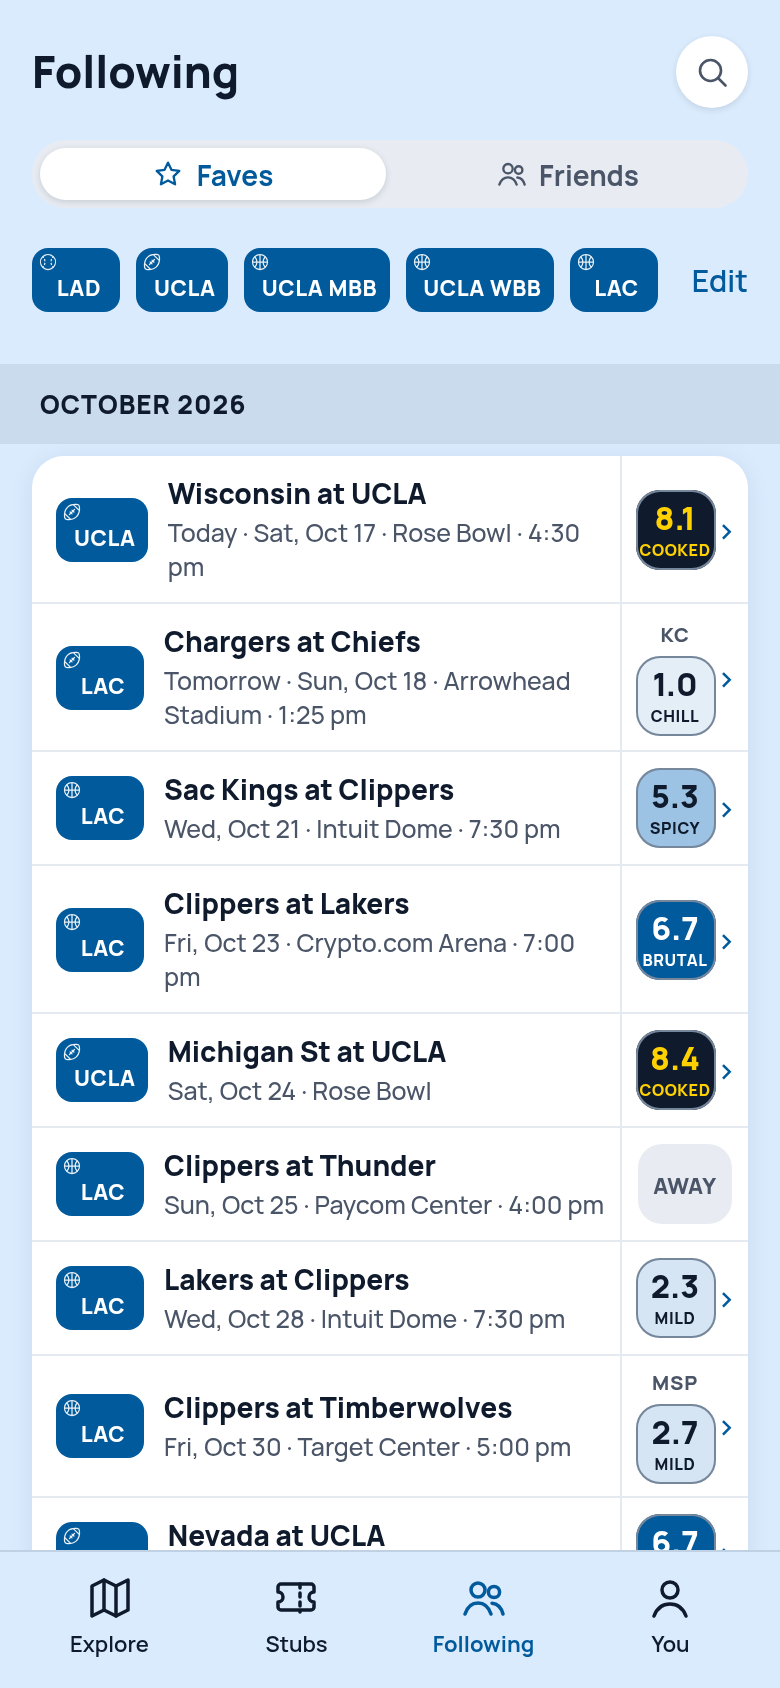
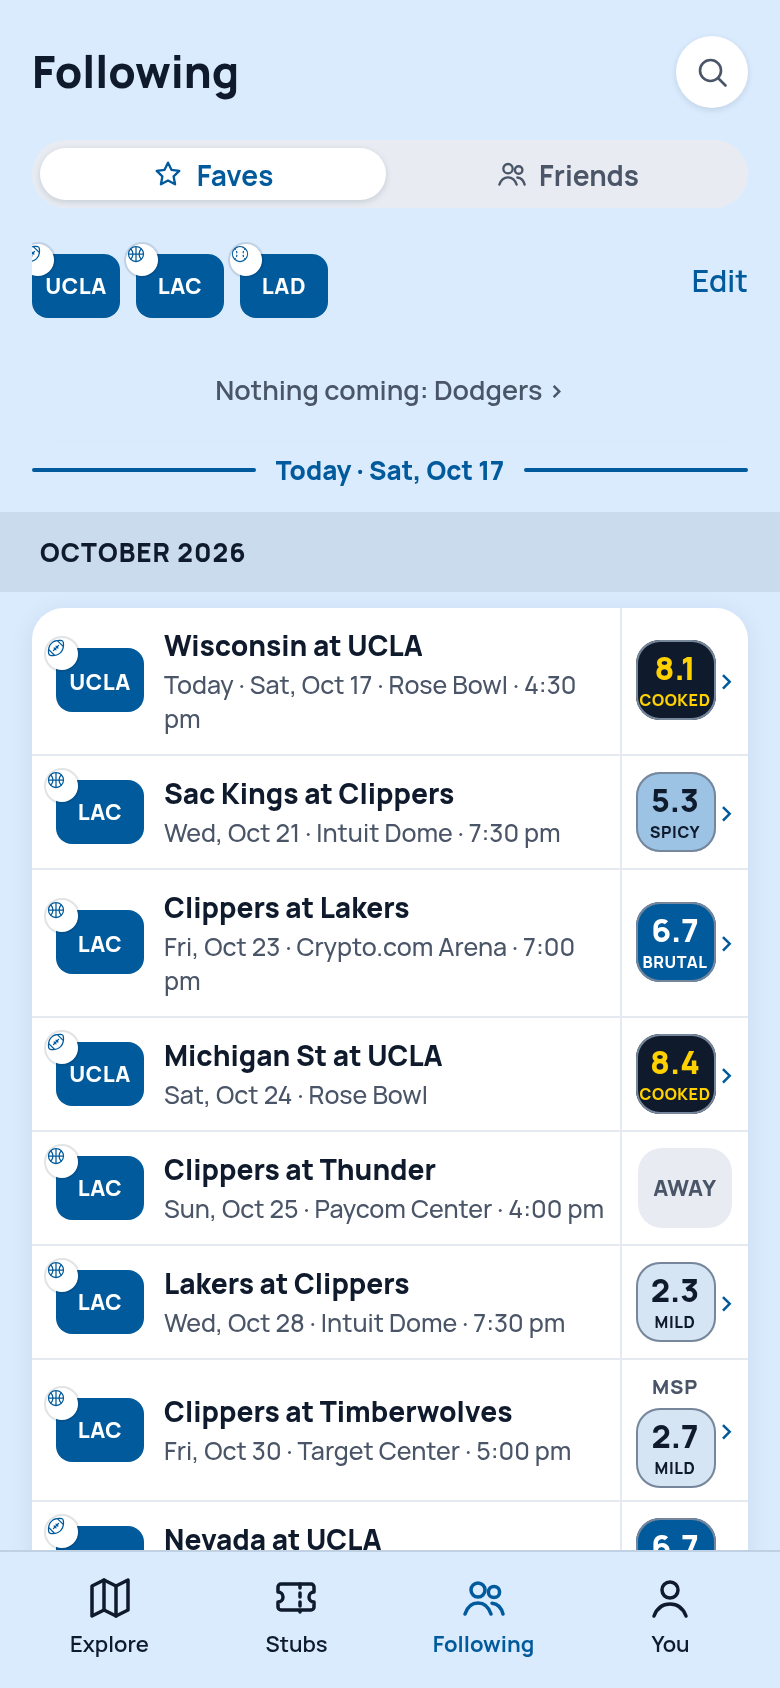
docs: the Faves row mockup prompt with the two tries, the evening tweaks logged, screens after, handoff and backlog synced

diff --git a/MEMORY_HANDOFF.md b/MEMORY_HANDOFF.md
@@ -2,13 +2,14 @@
 
 Overwritten each session. Deferred work and history live in `BACKLOG.md`: open questions are at its top (the K-list), build follow-ups under **Next** ("Build 6 follow-ups" is newest, then "Past dates", then "Build 5 follow-ups"). Product rules live in `AGENTS.md` (CLAUDE.md points at it), `docs/product/direction.md` and `docs/product/product-decisions.md` (newest sections at the bottom; build 6's decisions are the last section). Build 6's notes are `docs/build-6/build-notes-6.md`; its frozen scope is `docs/build-6/scope-frozen.md`.
 
-_Last synced: Oct 17, 2026 (about 15:30 UTC), Claude Code (Fable 5.1), at `main`'s head after the mockup audit, everything pushed and the tree clean. Kylie's standing instruction: one commit per step, straight to `main` (Kylie, Oct 9; reaffirmed for build 6)._
+_Last synced: Oct 17, 2026 (evening UTC), Claude Code (Fable 5.1), at `main`'s head. **Four commits after `7b3831b5` are local and NOT pushed** (Kylie, Oct 17: "do not automatically fix and push"; push when she says). The tree is clean. Kylie's standing instruction: one commit per step, straight to `main` (Kylie, Oct 9; reaffirmed for build 6)._
 
 ## Current state
 **Build 6 is built, checked and pushed** (items 1–16 of `docs/build-6/build-notes-6.md`, one item per commit, from `75816216` to the head). `npm run build`, `scripts/titles-check.mjs` and `scripts/event-types-check.mjs` pass; every changed list was measured at 390 px with Playwright; every changed screen was smoke-tested for runtime errors. In short:
 - Friction is a violet ghost ring on list rows (after the crowd figure) and one-tint pill with a ring on the event page's Crowd and Up against cards; Stubs rows and Following cards carry no friction mark. The occasion tag shows only on the day's top event(s), right-justified on the venue line. Local Competition bars are gold with a quiet-day line. No "~" except the event page's full number and the map key. The chip card's by-line shows only beside its pill.
 - Stubs and Following's Friends segment are timelines (`src/components/Timeline.tsx`): the tab header stays at the top, the today line opens first (board M2-01 panel C: a thin blue rule with the date centred on it, month bands on both sides), the past is above by scrolling up (Kylie, Oct 17, correcting the first build). Following keeps Faves | Friends; only the edit-favorites picker is in Settings.
 - **The mockup pack is audited (Oct 17, later):** `docs/build-6/mockups/` (30 boards plus MANIFEST) and the Oct 17 notes (Q15, Q16) are on disk; `docs/build-6/audit-vs-mockups.md` records every item against its boards, the fixes (`9ed4b4ff` item 1: ring geometry per M5-04, Unopposed a full disc, per-level spoken sentences, the key's helper tip per M5-08; `caafc5ea` items 6 and 7: the today line, bands both sides, empty-past above, no Earlier, the button's shrink) and the screens after (`docs/build-6/screens-after/`). Items with no board: chip card, Friends timeline, Settings panel, the decided badge, the event header without the pill, the share card. **Her answers, built the same day** (`b7e21048`, `cb4969bd`, `e58add49`): Faves takes month bands with the day on each row; the empty future is M2-02's card; a list with no past opens at its top; the map key fits under the header; the timelines no longer overflow the page's width or squash the chips. Open for Mosaic: the helper tip broken into sections.
+- **Her evening tweaks (local, unpushed):** Faves is the same timeline as Stubs and Friends, 60 days each way, results on past team rows; the crowd-size line toggles Show / Hide in place on the map sheet, the Explore List, the date page and search; the map sheet scrolls to every event; day and event links always carry the city; the badge's sport icon is a white disc astride the tile's top-left corner. **The Faves row is waiting on mockups** from other models (`docs/research/topics/faves-row/faves-row-mockup-prompt.md`); until then the row keeps its badge and written date.
 - Settings is a side panel behind the You avatar (`SettingsPanel` in `src/screens/SettingsScreen.tsx`, `?panel=<section>`); the old sub-page and People addresses redirect into it.
 - Team badges are set-aware (`teamBadge(team, shown)`, `badgesCollide`, `FavoriteBadge`): sport icon top-left, college sport letters on a clash, pros plain. 53 team codes changed (Kylie's six plus 47 Medium rows). The duplicate check keys games by team id.
 - Doubleheaders read "Doubleheader Game 1" / "Doubleheader, Game 1" (chip DH1); a `rank` field shows in the event page title only when a source fills it (none does). Run labels: nothing. "The night" story heading is "The evening". Ticket links are off (code and ids kept). B5-02, B5-04, B5-05, B5-07 fixed. Stale docs corrected; `src/lib/chips.ts` and `frictionClass` removed.

diff --git a/docs/product/product-decisions.md b/docs/product/product-decisions.md
@@ -268,3 +268,4 @@ Each entry: the decision, why, and what was rejected. Provenance per line: "Kyli
 - **Timelines open the Explore List's way, and Following keeps its sub-tabs** (Kylie, Oct 17, 2026, correcting the first build of items 6 and 7). Stubs and the Friends segment open with the tab's own header at the top and today's band first in the list; the past sits above and is reached only by scrolling up, the future runs down; a Today pill brings you back. Following keeps Faves | Friends: Faves is the schedule with its badge strip and Edit, Friends is the timeline of what followed people answered (plans ahead, the last 60 days behind), with Find people above it. Only the edit-favorites picker lives in Settings ("Edit favorites"); the Faves schedule does not.
 - **Build 6 aligned with the mockup pack** (Kylie, Oct 17, 2026, after attaching `docs/build-6/mockups/` and the Oct 17 notes; record in `docs/build-6/audit-vs-mockups.md`). The today line is board M2-01 panel C: a thin blue rule with "Today · Sat, Oct 17" centred on it, not a band; the month bands are grey on both sides of it, so the line's month shows twice; the empty-past card sits above the line and the empty-future note under it; no "Earlier" label; the floating "+ Stub it" opens extended and shrinks only once the list leaves where it opened. The ring follows board M5-04: 12 px on rows and 16 px on the event page, a 4.5 opening with dots of 3.2 / 2.0 / 0.9, Unopposed a full disc (event page only); its stroke is a touch under the board's 1.5 (her M5-06 note). A row's spoken verdict is one sentence per level (M5-04's table: "take a little of", "split", "take most of this crowd"; "rival events or weather" on an open-air event). The map key's helper tip is M5-08 draft A: "Each event is Unopposed, Squeezed, Swamped or Steamrolled by that day's lineup.", the four marks as ring plus word, "A row shows the ring. The event page shows the ring and the word." (wording still a default). Everything else was already as the notes and the decided boards say (items 2, 3, 4, 5, 8 to 16 unchanged).
 - **Her answers to the audit's questions** (Kylie, Oct 17, later). The Faves schedule on Following takes month bands too, each row saying its day first ("Today · Sat, Oct 17 · Rose Bowl · 4:30 pm"). The empty future under the today line is board M2-02's card ("Nothing upcoming yet", "Browse today in Explore ›"), not a one-line note. A list with nothing behind the line opens at its top, so the empty-past card is never out of view. The map key must not hide under the floating header (it now fits between the header and its button and scrolls inside); the helper tip's wording stays for now, and she wants its information broken into sections later (Mosaic). The Stubs and Friends lists must sit within the page's width with the chips above them intact (fixed).
+- **Kylie's Oct 17 tweaks after the correction** (built the same evening; held on `main` unpushed at her word). **Faves goes backwards too:** the Faves sub-tab is the same line of time as Stubs and Friends, reaching 60 days each way (reversing the Oct 16 pick that past Faves games stay out); a team's past rows read its results the team page's way ("W 17–15 at Oregon"), other favorites show their past dates; "Nothing coming: X" still names the favorites with nothing ahead. The Faves row itself is not settled: a date tile should carry the day (the written date leaves the row) and the row needs a way to show which favorite it belongs to; two tries (three tiles; a team line) were not right, so other models are mocking it from `docs/research/topics/faves-row/faves-row-mockup-prompt.md`. **The crowd-size line** ("N events outside your crowd size · Show") stays in place after Show and reads Hide, so the view switches on and off without Settings, on the map sheet, the Explore List (per day), the date page and search; the sheet's count follows what is listed. **The map sheet scrolls** to every event (its day list was shrinking to the sheet's height and clipping the rest). **Day and event links always carry the city** they were opened from (a Los Angeles day had opened as the Bay Area home). **The badge's sport icon** is a small white disc astride the tile's top-left corner, the icon in the tile's blue, as the badge board draws it, not a glyph painted over the tile.

diff --git a/docs/research/topics/faves-row/faves-row-mockup-prompt.md b/docs/research/topics/faves-row/faves-row-mockup-prompt.md
@@ -1,0 +1,31 @@
+# Mockup prompt: the Faves row on Fan/Friction's Following tab
+
+Written Oct 17, 2026 for a mockup model (Mock Mosaic or another). Attach the three images in this folder: `faves-row-today.png` (the live tab), `faves-row-tried-A-three-tiles.png` and `faves-row-tried-B-team-line.png` (two tries, neither chosen). The answer goes beside this file as `faves-row-mockup-answer.md` plus its board images.
+
+## What the screen is
+Fan/Friction is a personal log of live events (sports and concerts) with a friction read on each night. The Following tab has two sub-tabs, Faves and Friends. Faves is one line of time for the teams, artists, venues and festivals a person follows: above a "Today · Sat, Oct 17" rule, the last 60 days (a team's results, an artist's past dates); below it, the next 60 days. Month bands ("OCTOBER 2026") separate the months on both sides of the rule. The tab opens on the rule and the past is reached by scrolling up. The Friends sub-tab and the Stubs tab use the same line of time, so the three should feel like one family.
+
+## The ask
+Draw the Faves row. It must show, at a glance: the day (the month band carries the month, so the row carries the day), the team or artist it belongs to (the reason it is on this tab), the game or show (title), the venue and time, and the date's read tile at the right. A past game row also shows the result ("W 17–15 at Oregon", the team's own page already writes it this way). Give three or four options at 390 px wide, each as a phone screen with the sub-tab header, the badge strip, two past rows, the today rule, and four upcoming rows, including one away game with the "Away" tag instead of a read tile and one row whose title is long ("Clippers at Timberwolves").
+
+## What exists, reuse it
+- **Date tile:** 44 × 44, weekday over the day number, 1 px ink outline, 10 px corners (the Stubs and Friends rows start with it).
+- **Team badge:** a blue tile (`#005A9C`) with the code in white ("UCLA", "LAC"), a small white disc astride its top-left corner carrying the sport icon; college programs read "UCLA MBB" only beside another UCLA program of the same sport; a pro team that shares a code and sport with another pro badge in the strip carries its league in 11 pt under the tile.
+- **Read tile:** the date's 1–10 read with its word (Chill / Mild / Spicy / Brutal / Cooked), about 60 × 60, at the row's right, opening the date page; "Away" (grey tag) where the app does not cover the building.
+- **Month band:** full width, grey, uppercase 13 px bold.
+- **Today rule:** a 2 px blue line with "Today · Sat, Oct 17" centred on it, 13 px bold blue.
+- **A row's last line** on Friends is 12.5 px blue ("Sam +2 attending"); try B used it for the team ("★ UCLA Bruins").
+- **Type:** Manrope; 11 pt minimum; rows at least 44 pt tall; Letterboxd density.
+- **Colour roles:** blue is action, gold is crowd, violet is friction. No new colours; no gold text on white.
+
+## What was tried and why neither is right
+- **A, three tiles:** date tile, then the badge, then the read tile. Busy; the title column drops to about 164 px and long titles truncate.
+- **B, date tile and a team line:** the badge goes, the team is named on the row's last line. Calmer, the title keeps 220 px, but the tab no longer shows the badge on the row, and Kylie says it is "still not right".
+
+## Constraints
+- One row component for past and future; the only difference on a past row is the result in the title and no time.
+- The person's own answer ("Attending") is not on this row; it lives on Stubs.
+- No friction mark and no occasion tag on these rows (they show information, not conclusions).
+- Mark every option "EXAMPLE data"; team names and venues may be real, crowds and reads are examples.
+- Measure what you draw: title width in px at 390, row height, whether any title truncates.
+- Say which option you lean to and why; Kylie decides.

diff --git a/BACKLOG.md b/BACKLOG.md
@@ -76,6 +76,7 @@ Items 1–16 are built and on `main`; the report is `docs/build-6/build-6-report
 - ~~Open question: how clashing same-sport pro pairs are told apart~~ **Closed (Kylie, Oct 17): option A.** A pro badge whose code and sport another pro badge in the set shares carries its league as a caption under the tile (`leagueMark`, `FavoriteBadge`). Team colors stay a possible branding project (no color data exists; about 200 teams would need a hand-sourced hex; ESPN's values are unlicensed for reuse so far).
 - ~~To confirm: letters only on a clash~~ **Confirmed (Kylie, Oct 17):** college sport letters only on a clash, same code and same sport. The wider college badge ("UCLA MBB", about 74–79 px) lets the tile grow; Mosaic's width call is still welcome.
 - **Leans and defaults she may change (one place each):** the Why card and Favorite page rows (Q14); ~~the Faves strip and day rows living in the Settings panel (Q12)~~ reverted Oct 17 (Kylie: the Faves segment stays on the tab; only the edit picker is in Settings); the Time TBA band alone (Q13); "The evening" (Q11); the Stubs empty copy rendered as "No stubbed events" (the notes write it lowercase); ~~the today band's look~~ aligned Oct 17 with board M2-01 panel C (a thin blue rule; `docs/build-6/audit-vs-mockups.md`); the empty-future side as a one-line note (board M2-02 draws a card with "Browse today in Explore ›"); the stub's level shown on every row only when signed in; the Settings dropdown order; the Following row's last line (the people on it, else a star and the Fave); Following's 60-day window (the past, and the Faves horizon; followed people's plans ahead are not capped); the map key's helper tip in board M5-08's draft A shape (three lines; draft C is shorter); the ring's stroke (1.3 at 12 px, a touch under M5-04's 1.5 per her M5-06 note).
+- **The Faves row (Kylie, Oct 17): waiting on mockups.** The prompt and the two tries are in `docs/research/topics/faves-row/`; until a board is chosen the row keeps its badge and its written date ("Today · Sat, Oct 17 · Rose Bowl · 4:30 pm", which wraps to two lines on long venues). Also from her: the helper tip's information broken into sections (Mosaic).
 - **After the mockup audit (Oct 17):** ~~Faves month bands~~ built (Kylie: yes). **For Mosaic:** the map key's helper tip (Kylie, Oct 17: "lots of information, might want to break down in sections"; it keeps M5-08 draft A's words until a board says otherwise); boards still wanted for the chip card, the Friends timeline, the Settings panel, the decided badge (and the lettered tile's width), the event header without the pill, and the share card.
 - ~~Duplicate program records~~ **Merged Oct 17 (Kylie: "go ahead"):** `rice` into `rice-football`, `washington-huskies` into `uw-football`; their old names are aliases; the two seeded games point at the programs. The expected-draw index keys visitors by listing slug ("rice"), which the merge does not touch.
 - **The 22 Low team codes** stay held until each is checked on a league or ESPN page (PWHL Detroit and Las Vegas, KC Mavericks, Indy Fuel, Winterhawks, Generals, 67s, Olympiques, Missions, the two Diablos, PVAMU, IU Indy, Columbia, Penn State, the Varsity Blues, York).
